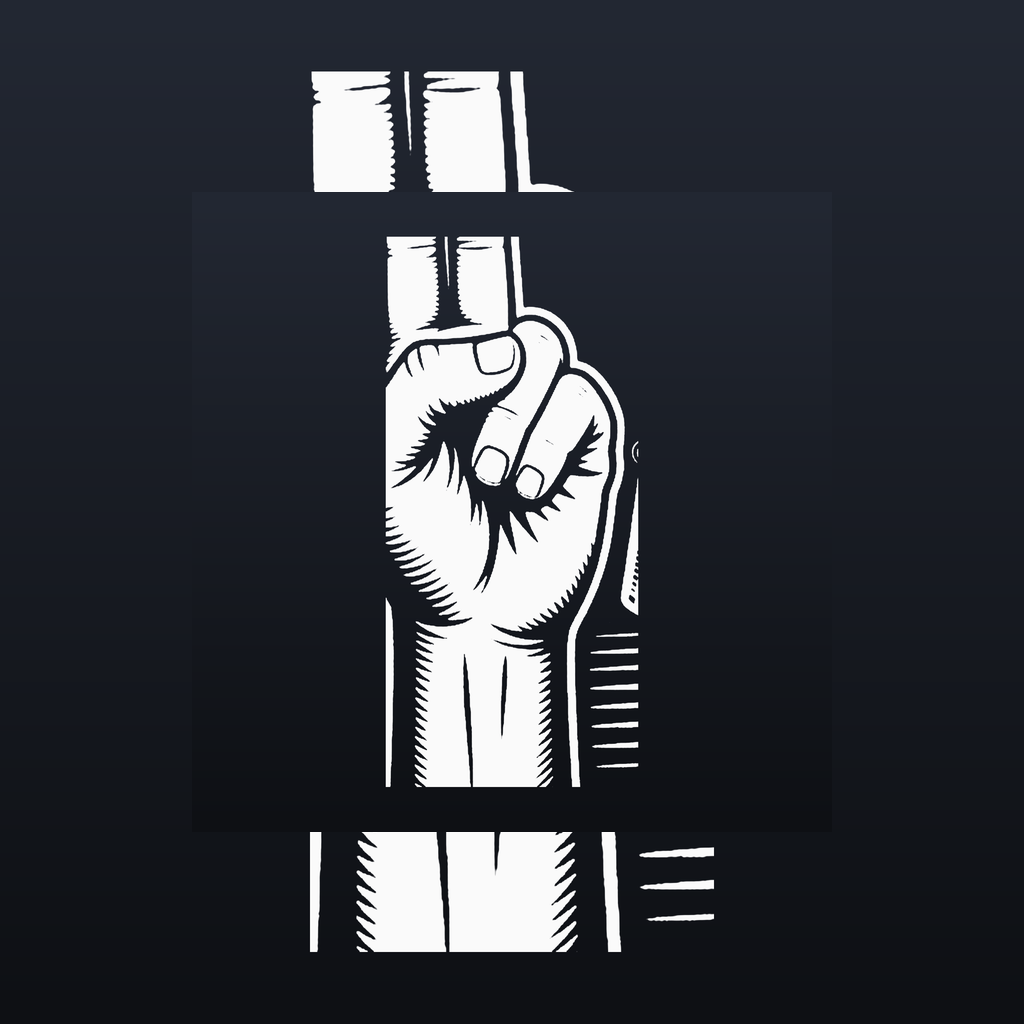
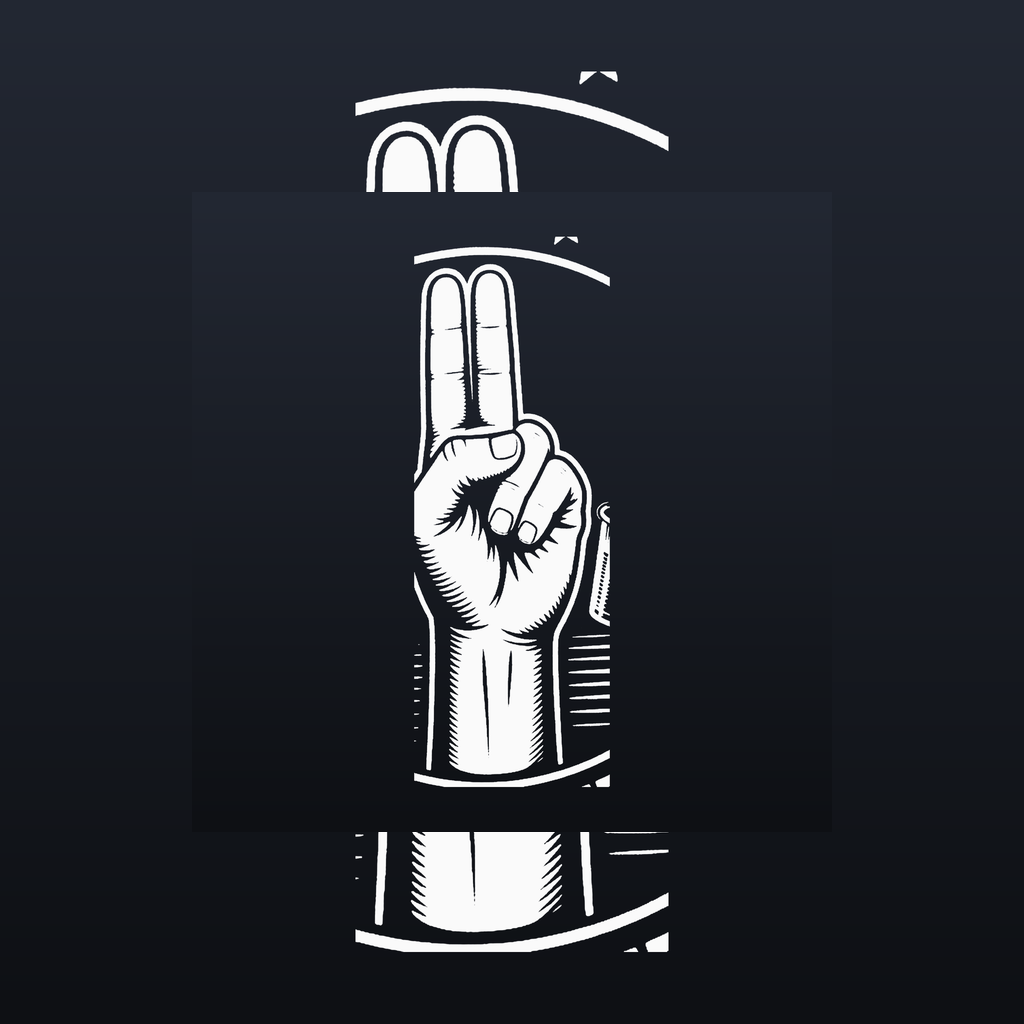
Include fingertips in hand crop and center hand

diff --git a/scripts/make_icon.py b/scripts/make_icon.py
@@ -10,7 +10,7 @@ BG_BOTTOM = (14, 16, 20)
 WHITE = (250, 250, 250)
 
 # bounding box of the hand in public/shalom3.jpg (fractions of width/height)
-HAND_BOX = (0.4294, 0.2693, 0.6399, 0.7300)
+HAND_BOX = (0.410, 0.110, 0.650, 0.789)
 
 
 def gradient_img(w, h, top, bottom):
